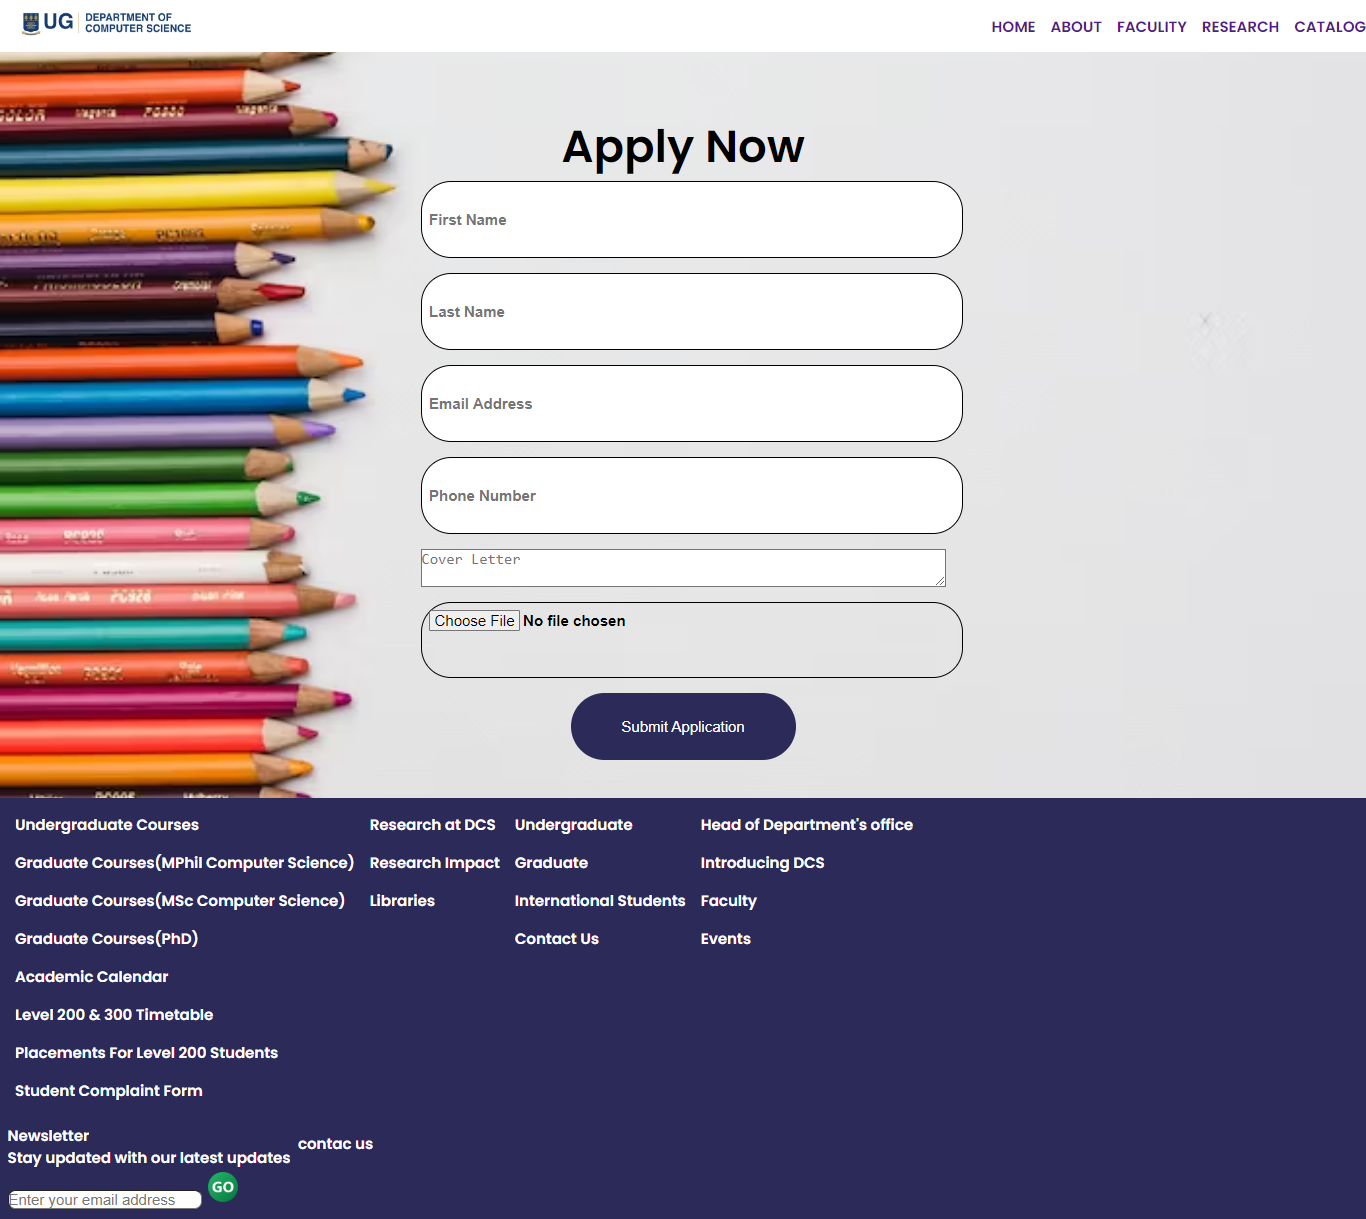
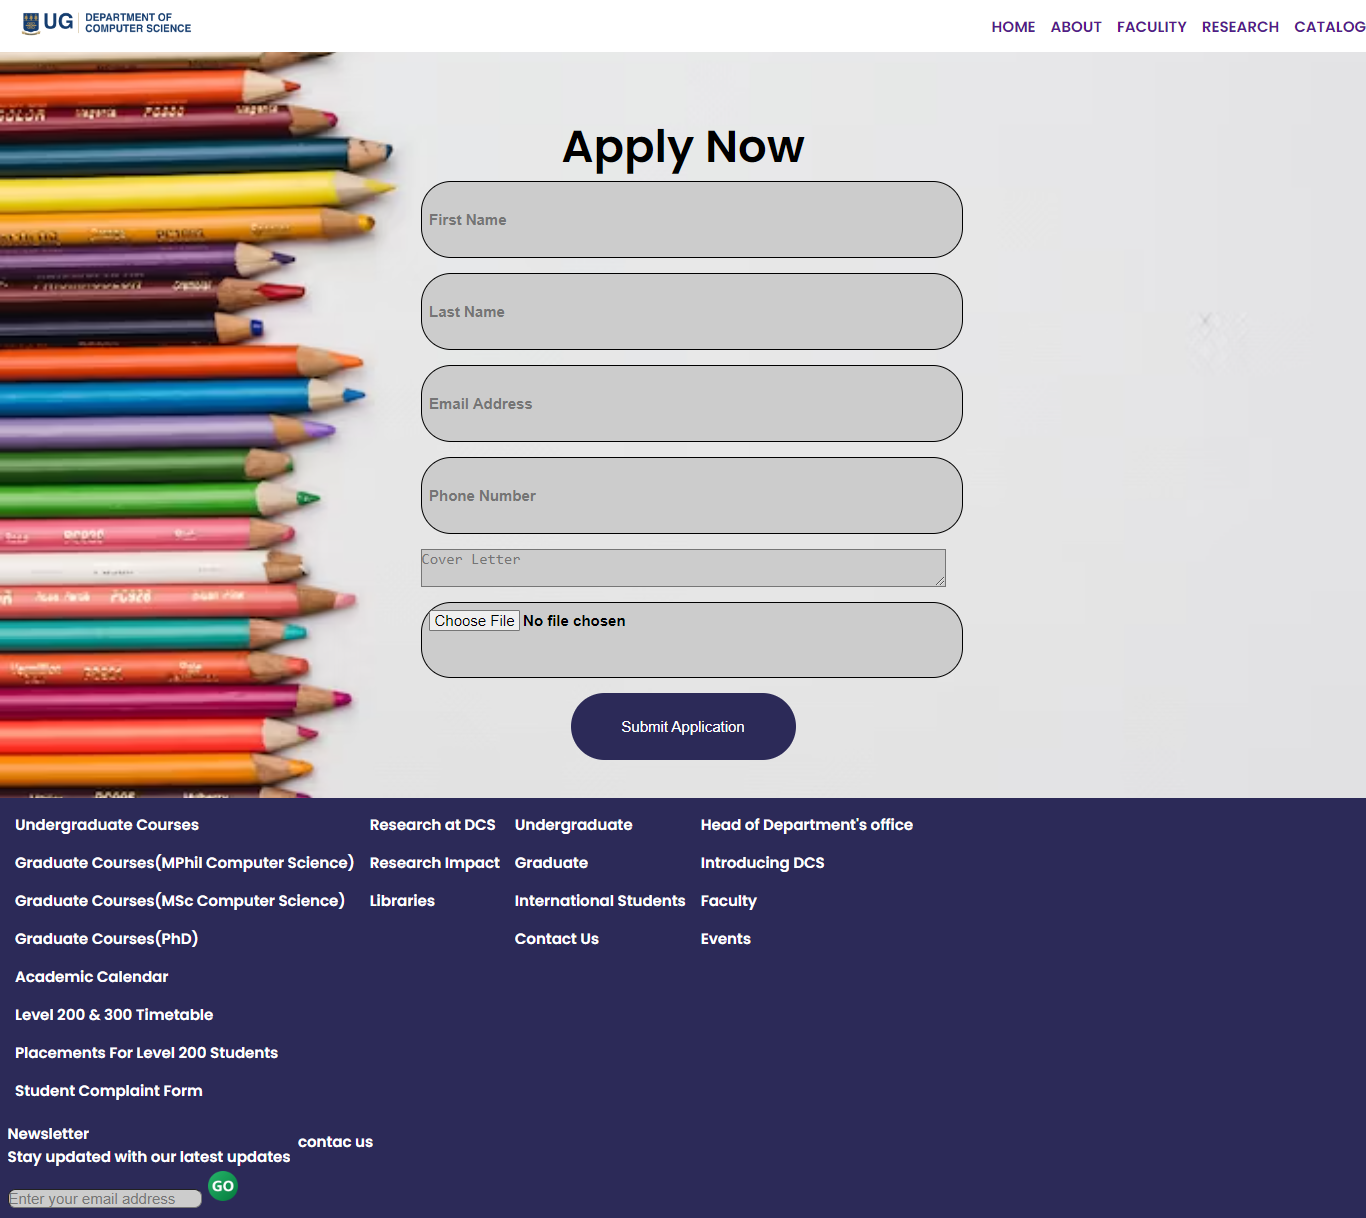
Some small modification to the previous

diff --git a/Facility/Facility.html b/Facility/Facility.html
@@ -10,88 +10,46 @@
     <link rel="preconnect" href="https://fonts.gstatic.com" crossorigin>
     <link href="https://fonts.googleapis.com/css2?family=Poppins:wght@600&family=Roboto:wght@700&display=swap"
         rel="stylesheet">
+    <link rel="stylesheet" href="/style.css">     
     <style>
         body {
-            font-family: 'Poppins', sans-serif;
-            margin: 0;
-            padding: 0;
-            box-sizing: border-box;
-        }
-
-        /* Navigation bar styles */
-        .firstBar {
-            display: flex;
-            justify-content: space-between;
-            align-items: center;
-            padding: 10px;
-            background-color: #333;
-            color: white;
-            
-        }
-
-        .logo img {
-            height: 50px;
-            width: auto;
-        }
-
-        .quickAccess {
-            display: flex;
-            gap: 20px;
-        }
-
-        .em a {
-            text-decoration: none;
-            color: white;
-        }
-
-        /* Header styles */
-        header {
-            margin-top: 100px;
-            text-align: center;
-        }
-
-        header h1 {
-            font-size: 36px;
-            margin-bottom: 20px;
-        }
-
-        header img {
-            max-width: 100%;
-            height: auto;
-            border-radius: 10px;
-        }
-
-        header p {
-            font-weight: 600;
-            margin-top: 10px;
-        }
-
-        /* Section styles */
-        .faculty {
-            margin: 50px 0;
-        }
-
-        .faculty-info {
-            display: grid;
-            grid-template-columns: repeat(auto-fit, minmax(300px, 1fr));
-            gap: 20px;
-        }
-
-        .faculty-info h2 {
-            color: #333;
-        }
-
-        .faculty-info p {
-            color: #555;
+          
         }
     </style>
 </head>
 
 <body>
 
+
+    <!--Navigation bar-->
+  <div class="firstBar" >
+    <div class="logo">
+      <img src="/photos and videos/comScience_logo.png" alt="Logo">
+    </div>
+    <div class="quickAccess">
+      <div class="em">
+        <a href="/Home/home .html">HOME</a>
+      </div>
+      <div class="em">
+        <a href="/About/About.html">ABOUT</a>
+      </div>
+      <div class="em">
+        <a href="/Facility/Facility.html">
+          FACULITY</a>
+        </div>
+      <div class="em">
+        <a href="/Research/Research.html">RESEARCH</a>
+      </div>
+      <div class="em">
+        <a href="/About/Events/catalog.html">CATALOG</a>
+      </div>
+
+    </div>
+  </div> 
+
     <!-- Header -->
-    <header>
-        <h1>Welcome to the Computer Science Department</h1>
+    <header class="faculty-h">
+        <h1">Welcome to the Computer Science Department</h1>
         <img src="https://dcs.ug.edu.gh/img/Dr%20Jamal%20Deen%20Abdulai.jpg" alt="">
         <p>Dr. Emmanuel Apraku <br>Head of the Computer Science Department</p>
     </header>
@@ -108,14 +66,18 @@
             <!-- Faculty Information -->
             <div class="faculty-info">
                 <!-- Individual Info Blocks -->
-                <div>
+               <section>
+                
                     <h2>Our Commitment</h2>
                     <p>As the Head of the Department, I am proud to lead a team of dedicated faculty members who are not only experts in their fields but also passionate about imparting knowledge to the next generation of computer scientists. Our commitment to providing a world-class education is unwavering, and we strive to create an environment that fosters innovation, critical thinking, and collaboration.</p>
-                </div>
+                
+               </section>
 
-                <div>
+                <section>
                     <h2>Exciting Opportunities</h2>
                     <p>Whether you are a student looking to embark on a journey of discovery, a faculty member eager to contribute to cutting-edge research, or a visitor interested in the exciting developments in computer science, you will find a wealth of opportunities within our department. From state-of-the-art labs to engaging classroom experiences, we provide the resources needed to thrive in the ever-evolving field of technology.</p>
+                </section>
+                    
                 </div>
 
                 <div>
@@ -153,6 +115,13 @@
       
   </div>
 </div>
+
+<div style="display: flex;">
+    <img src="https://media.istockphoto.com/id/1441663123/photo/scientists-working-in-the-laboratory.webp?b=1&s=170667a&w=0&k=20&c=mzKas4PEoVqNUcGxTkjjABXA2mY15v9q6sujwwHQMw4=" alt="">
+    <img src="https://media.istockphoto.com/id/1254127323/photo/businesswoman-holding-a-speech.webp?b=1&s=170667a&w=0&k=20&c=LuNzPN-LCdis1CaFTPR7I1h4jS4GuSJD4tOjn7BXTAY=" alt="">
+    <img src="https://media.istockphoto.com/id/1410336912/photo/happy-teacher-and-schoolgirl-giving-high-five-during-class-at-school.webp?b=1&s=170667a&w=0&k=20&c=VzOy6zKCCYu_zVlu-KUwK_ujKYUJxbDERgSyEANQ-8w=" alt="">
+</div>
+
 
 
 </body>

diff --git a/About/Events/catalog.html b/About/Events/catalog.html
@@ -12,6 +12,22 @@
     *{
       margin: 0;
     }
+    .catalog{
+      background-color: rgb(22,44,41);
+      padding-top: 100px;
+      padding-bottom: 100px;
+    }
+    .catalog input{
+      position: relative;
+      left: 300px;
+      padding-left: 50px;
+      padding-right: 200px;
+      font-size: 25px;
+      height: 150px;
+      border-radius: 75px;
+      width: 50%;
+    }
+
 </style>
 </head>
 
@@ -48,20 +64,22 @@
 
 
 
-
-<div style="margin-top: 100px; text-align: center; display: f;"  > 
-
-  <input type="text" name="" id="" class="catalog-srch " placeholder="Student Enquiries">
-  <img src="https://cdn-icons-png.flaticon.com/128/3686/3686896.png" alt="" width="4%">
-</div><spana></spana>
-
-
-
-<div style="display: flex;">
-  <img src="https://media.istockphoto.com/id/1456749194/photo/college-students-arriving-for-night-school.webp?b=1&s=170667a&w=0&k=20&c=n4vQJWqfdG8NgdO2QRu7bfkvislcKTpTzb_vYp1hjqE=" alt="" width="100%">
- 
+<div class="catalog" style="margin-top: 100px;">
+  <input type="text" placeholder="Search for Information">
 </div>
 
+<div class="catalog-pic">
+  <img src="" alt="">
+</div>
+
+<div class="frequently">
+  
+  <ul>Recently asked quentions
+    <li><a href="#">who is the HOD</a></li>
+    <li><a href="">Qualifications for the course</a></li>
+    <li><a href="">Students  handbook</a></li>
+  </ul>
+</div>
     
 
 

diff --git a/About/Events/Event.html b/About/Events/Event.html
@@ -9,13 +9,13 @@
   <link rel="preconnect" href="https://fonts.googleapis.com">
   <link rel="preconnect" href="https://fonts.gstatic.com" crossorigin>
   <link href="https://fonts.googleapis.com/css2?family=Poppins:wght@600&family=Roboto:wght@700&display=swap" rel="stylesheet">
-  <style>
-    *{margin: 0;}
-    h2{
-      background-color: #ccc;
-    }
-  </style>
+  
 </head>
+<style>
+  h1{
+    background-color: #ccc;
+  }
+</style>
 
 <body>
 
@@ -137,16 +137,16 @@
 <div class="newsletter">
   <!-- Newsletter Section -->
   <div class="">
-      <h1>Newsletter</h1>
+      <h2>Newsletter</h2>
       <p>Stay updated with our latest updates</p>
       <input type="text" placeholder="Enter your email address" style="border-radius: 10px;">
       <span><img src="https://img.icons8.com/?size=48&id=E9cG1hfGzMxj&format=png" alt=""></span>
   </div>
 
   <!-- Contact Section -->
-  <div class="newsletter">
-      <h1><a href="/Home/contact Us.html" style="color: #fff;"> contac us</a></h1>
-      
+  <div class="newsletter" >
+      <h2><a href="/Home/contact Us.html" style="color: #fff; background-color: blue;"> contac us</a></h2>
+   
   </div>
 </div>
 

diff --git a/About/Apply.html b/About/Apply.html
@@ -15,6 +15,12 @@
   background-image: url('https://images.unsplash.com/photo-1501349800519-48093d60bde0?w=700&auto=format&fit=crop&q=60&ixlib=rb-4.0.3&ixid=M3wxMjA3fDB8MHxzZWFyY2h8MTR8fGJhY2tncm91bmQlMjBpbWFnZSUyMGZvciUyMHdlYnNpdGUlMjBoZHxlbnwwfHwwfHx8MA%3D%3D');
   
   background-size: 100%;}
+  input{
+    background-color: #ccc;
+  }
+  textarea{
+    background-color: #ccc;
+  }
 
 
   

diff --git a/style.css b/style.css
@@ -119,8 +119,10 @@ body {
   background-color: rgb(230, 233, 232);
 }
 
-
-
+.faculty-header{
+  margin-top: 100px;
+  padding: 20px;
+}
 
 
 
@@ -456,6 +458,11 @@ filter: brightness(10%) , contrast(100%) , hue-rotate(20ge) , invert(10%);
 }
 .past-events{
   border-bottom: 50px;
+}
+
+.evenflex h1{
+  background-color: inherit;
+
 }
 
 /* styling for contact us page  */

diff --git a/README.md b/README.md
@@ -46,26 +46,21 @@
 
 ![Homepage](/Screenshots/home.png)
 
-
-
 #### About page
 
 ![About Page](/Screenshots/About.png)
 
-
-
 #### Events Page
 
-![Events Page]()
-![Events Page]()
-
+![Events Page](/Screenshots/Event.png)
 
 ### Contact Us page
 
 ![Contact Us](/Screenshots/contact%20us.png)
 
-
 ### ShortCourse page
+
+![shorcourse page](/Screenshots/shortCourses.png)
 
 
 ### Apply page
@@ -84,6 +79,7 @@
 
 
 ### Faculty
+
 
 
 *Include screenshots of other important pages as well.*
